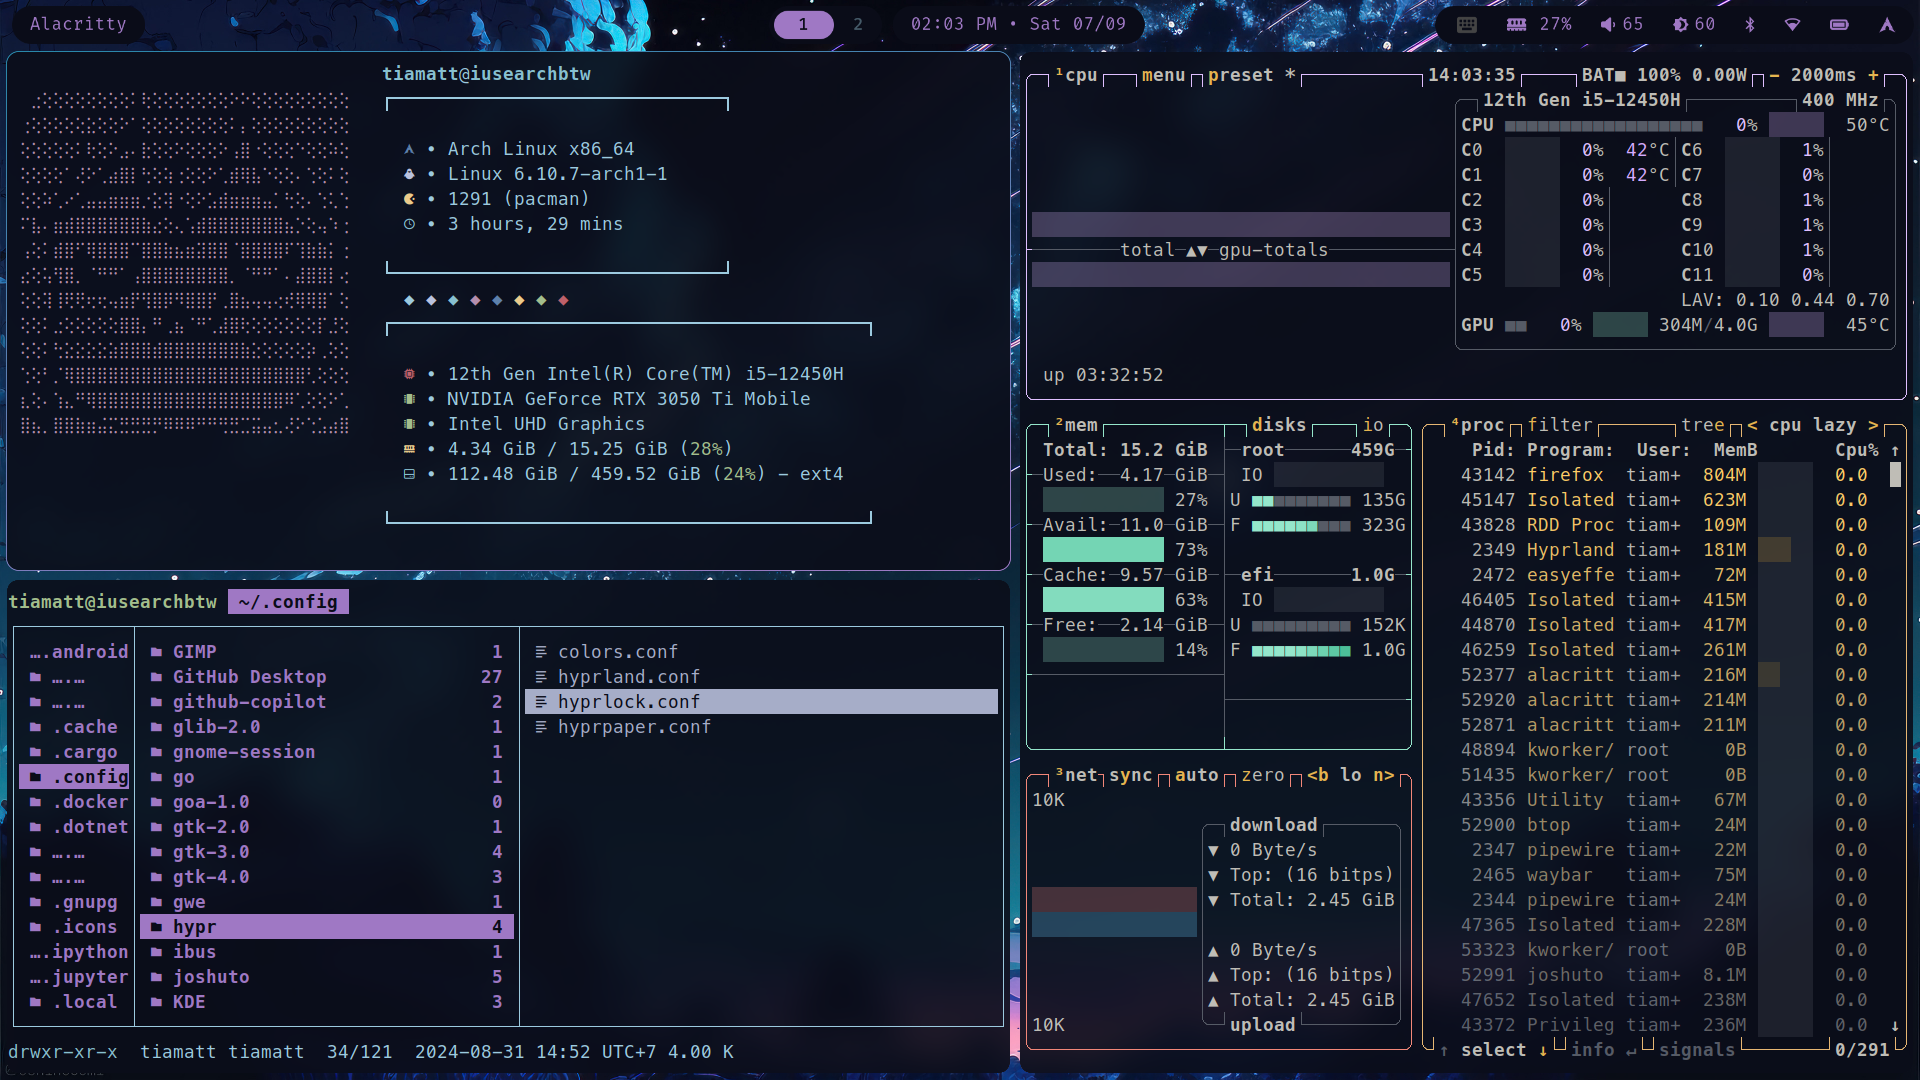
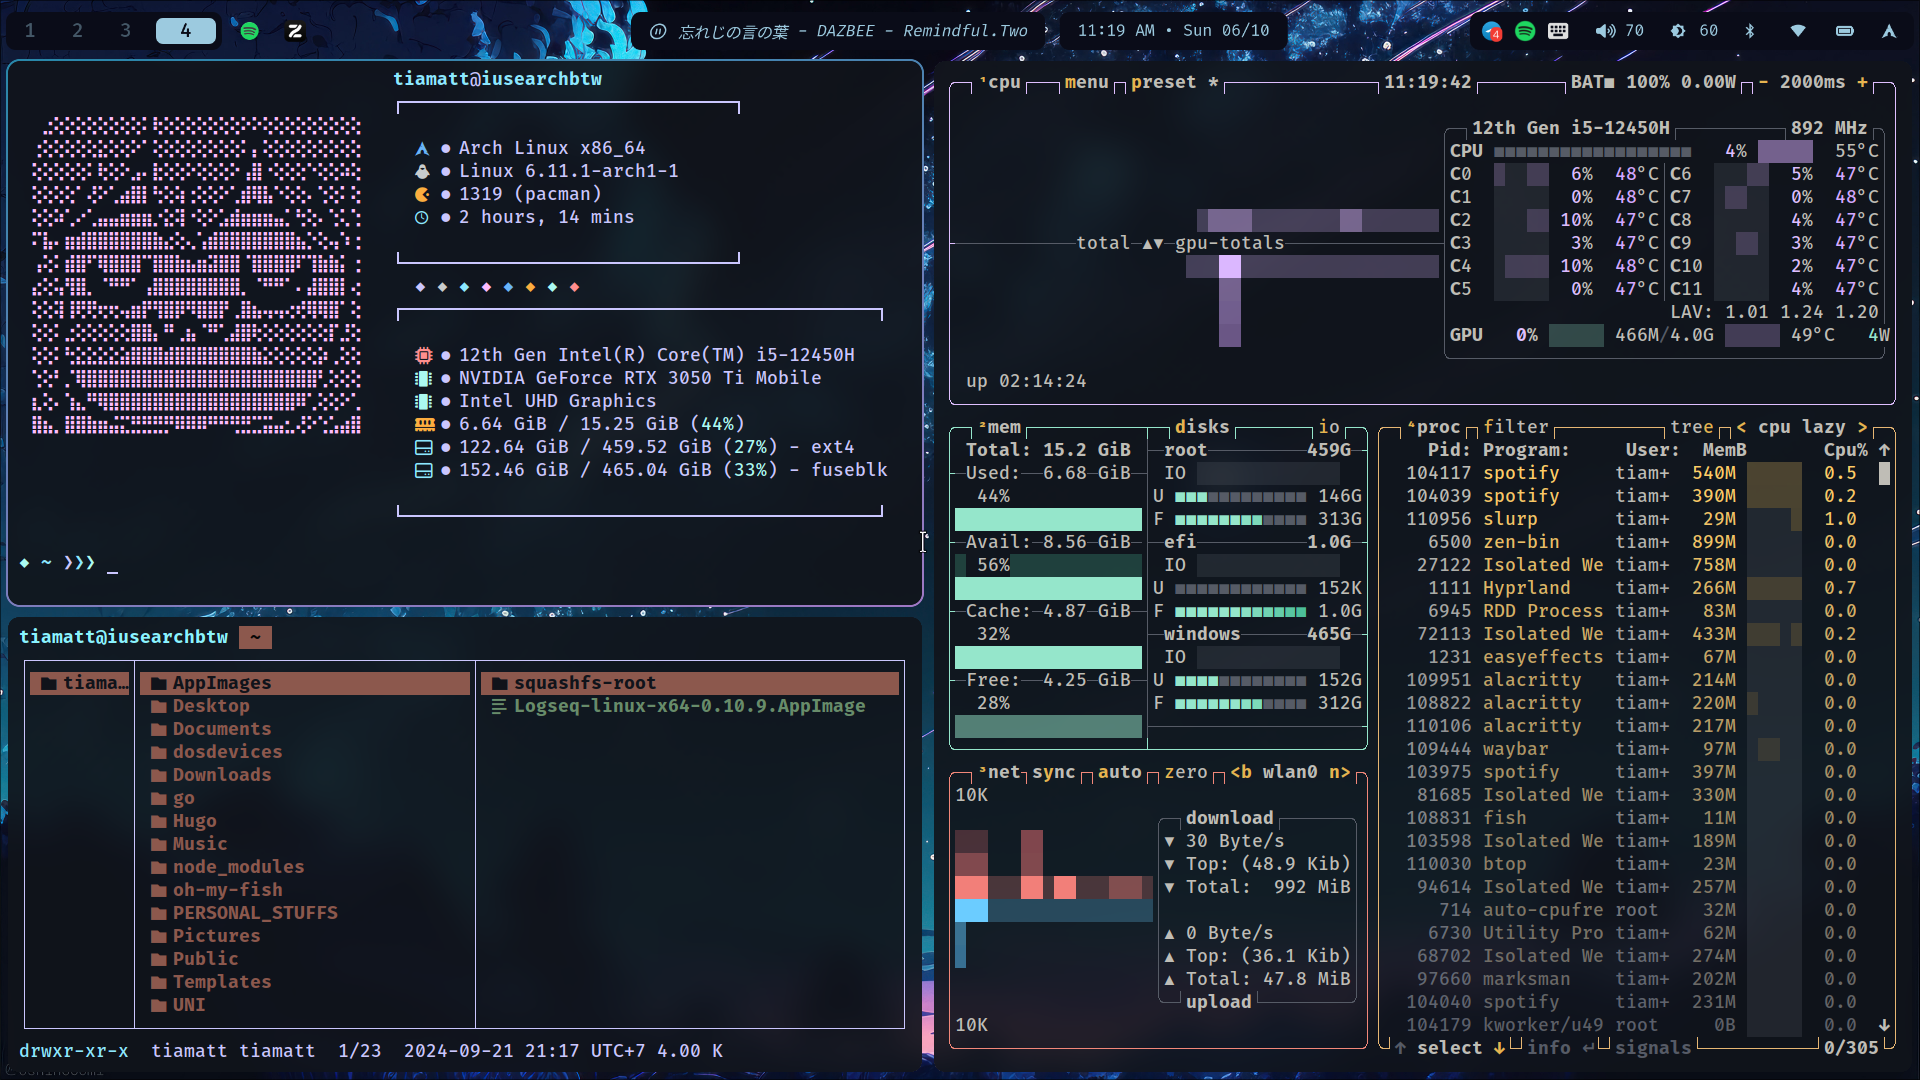
update preview & readme

Changed region(s): [[0.0, 0.0, 1.0, 1.0]]

diff --git a/waybar/topbar/colors-waybar.css b/waybar/topbar/colors-waybar.css
@@ -1,20 +1,20 @@
-@define-color foreground #a7c8b0;
-@define-color background #0d0a03;
-@define-color cursor #a7c8b0;
+@define-color foreground #e8e6de;
+@define-color background #131211;
+@define-color cursor #e8e6de;
 
-@define-color color0 #0d0a03;
-@define-color color1 #324B24;
-@define-color color2 #334D25;
-@define-color color3 #5D4F22;
-@define-color color4 #467746;
-@define-color color5 #973612;
-@define-color color6 #BC5010;
-@define-color color7 #a7c8b0;
-@define-color color8 #748c7b;
-@define-color color9 #324B24;
-@define-color color10 #334D25;
-@define-color color11 #5D4F22;
-@define-color color12 #467746;
-@define-color color13 #973612;
-@define-color color14 #BC5010;
-@define-color color15 #a7c8b0;
+@define-color color0 #131211;
+@define-color color1 #958F87;
+@define-color color2 #B0A79B;
+@define-color color3 #C4B9AB;
+@define-color color4 #CEC8B8;
+@define-color color5 #E1CBBD;
+@define-color color6 #DAD5C5;
+@define-color color7 #e8e6de;
+@define-color color8 #a2a19b;
+@define-color color9 #958F87;
+@define-color color10 #B0A79B;
+@define-color color11 #C4B9AB;
+@define-color color12 #CEC8B8;
+@define-color color13 #E1CBBD;
+@define-color color14 #DAD5C5;
+@define-color color15 #e8e6de;

diff --git a/readme.md b/readme.md
@@ -3,13 +3,11 @@
 > A simple Hyprland config with adaptive color scheme, packed with just the bare minimum to keep you away from all the useless "improved quality of life" shenanigans.
 
 # Sections
-> [Preview](#preview)
 
-> [Info](#info)
-
-> [Grant execute permission to scripts in `~/.config/hypr/scripts/`](#grant-execute-permission-to-scripts-in-confighyprscripts)
-
-> [Keybinds](#keybinds)
+ [Preview](#preview)
+ [Info](#info)
+ [Grant execute permission to scripts in `~/.config/hypr/scripts/`](#grant-execute-permission-to-scripts-in-confighyprscripts)
+ [Keybinds](#keybinds)
 
 ## Preview
 
@@ -25,6 +23,8 @@
 |**OS**| Arch Linux|
 |**WM** | Hyprland|
 |**Editor**| Neovim|
+|**Browser**| Zen Browser|
+|**File Manager**| Thunar|
 |**Fetch**| fastfetch|
 |**Launcher**| Fuzzel|
 |**Terminal**| Alacritty|
@@ -70,3 +70,9 @@ Wallpaper directory by default points to `~/Pictures/wallpapers/`
 |ALT + Shift + TAB| Previous workspace|
 |XF86 controls keys| Volume, brightness, etc|
 
+## Configure to your preference
+
+**Monitors**: `~/.config/hypr/monitors/monitors.conf`
+**ENV**: `~/.config/hypr/env/env.conf`
+**Input devices & touchpad scripts**: `~/.config/hypr/input/input.conf`, `~/.config/hypr/scripts/touchpad-status.sh`, `~/.config/hypr/scripts/touchpad-toggle.sh`
+**Hyprlock wallpaper**: `~/.config/hypr/hyprlock.conf`
